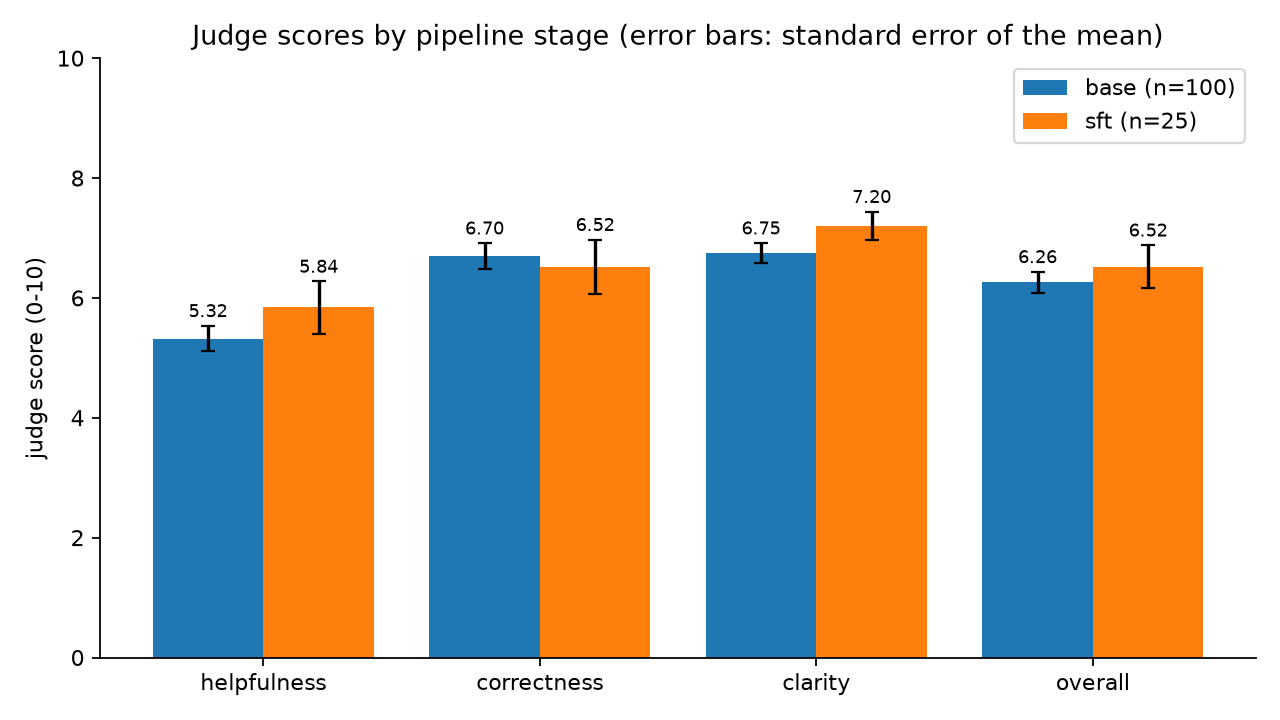
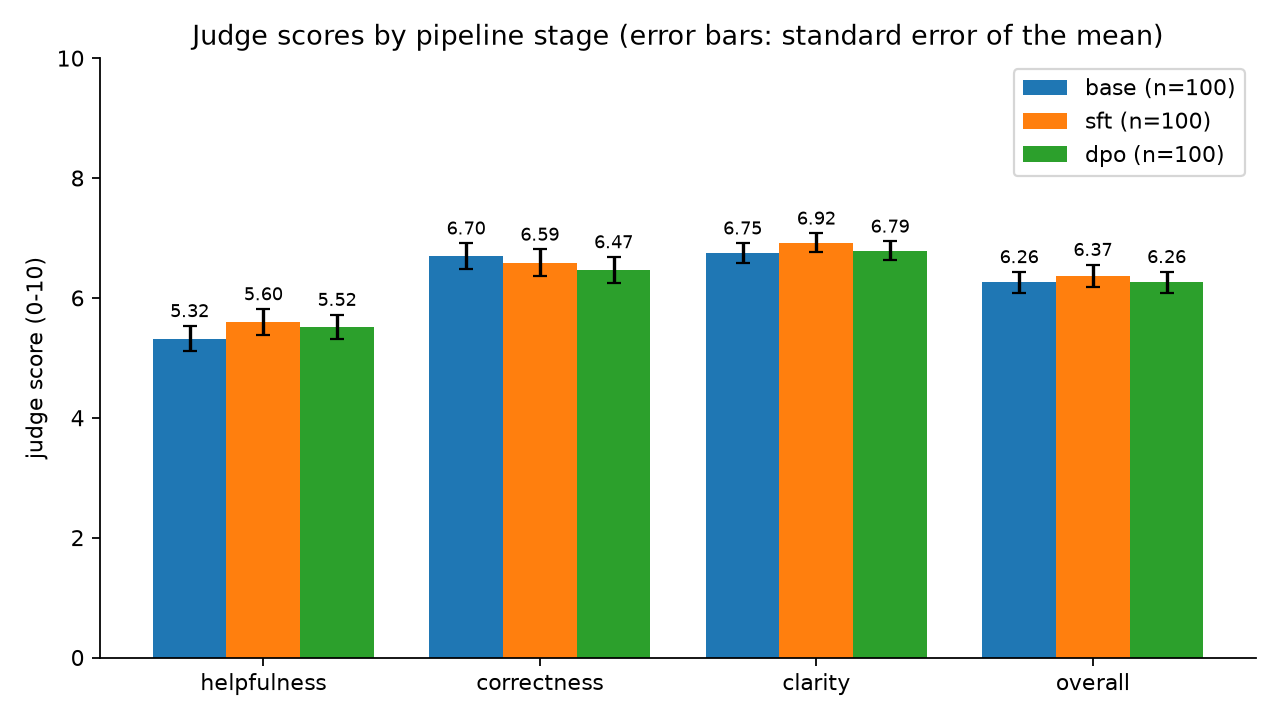
Correct the headline: the full sample does not support it
Scoring finished all three stages at 100 prompts. SFT's paired delta is +0.113
(95% CI -0.233 to +0.460) and DPO's is +0.003 (-0.329 to +0.336). Both contain
zero.

The earlier claim that SFT made the model worse came from -0.21 measured on 25
prompts, before the judge's daily budget cut scoring short. At four times the
sample the sign flips and the effect stays inside the noise. The README now says
what the data supports -- a 12.3% perplexity gain bought no measurable quality
change -- and keeps the retracted number visible rather than deleting it.

The pairwise result (base preferred 70 of 78) is kept but relabelled as
confounded: it changed the judge model and the prompt split at once, so it
cannot be read as evidence about pairwise versus absolute protocols. The claim
that pairwise separates what absolute cannot is withdrawn to a hypothesis with
the experiment that would test it.

diff --git a/README.md b/README.md
@@ -5,7 +5,8 @@ score and rank the results, then train DPO on those preferences — and report
 what actually happened.
 
 What actually happened is that **supervised fine-tuning lowered perplexity by
-12.3% and made the model worse.** The pipeline is built to catch exactly that.
+12.3% and produced no measurable quality gain.** The pipeline is built to catch
+exactly that.
 
 ```
 UltraChat 10k
@@ -26,11 +27,24 @@ DPO from the SFT adapter ──▶ adapters/dpo
 
 ## Results
 
-| Stage | Perplexity (held-out) | Pairwise vs base | Judge score, paired Δ |
-|---|---|---|---|
-| base | 3.609 | — | — |
-| SFT | **3.165** (−12.3%) | **loses 70 of 78** (10% win rate) | −0.21 (95% CI −0.75 to +0.32) |
-| DPO | 3.169 | *scoring pending* | *scoring pending* |
+| Stage | Perplexity (held-out) | Judge score (0-10) | Paired Δ vs base | Win/loss/tie |
+|---|---|---|---|---|
+| base | 3.609 | 6.26 | — | — |
+| SFT | **3.165** (−12.3%) | 6.37 | +0.113 (95% CI −0.233 to +0.460) | 49 / 37 / 14 |
+| DPO | 3.169 | 6.26 | +0.003 (95% CI −0.329 to +0.336) | 45 / 39 / 13 |
+
+100 prompts per stage, scored by gpt-oss-120b. **Both confidence intervals
+contain zero**: neither SFT nor DPO produced a quality change this evaluation
+can detect, while SFT moved perplexity 12.3%.
+
+A separate pairwise comparison — gpt-oss-20b, on the *different* `dpo` split —
+preferred base responses in 70 of 78 decided pairs. That disagrees sharply with
+the table above, and the honest reading is that it is **confounded**: it changed
+the judge model *and* the prompt set at the same time, so the disagreement
+cannot be attributed to the pairwise protocol alone. Resolving it needs the same
+judge running both protocols over the same prompts, which the daily token budget
+did not allow. It is reported because it is what the preference data actually
+said, not because it is conclusive.
 
 DPO training: loss **0.693 → 0.476**, reward margin **1.33**, reward accuracy
 **87.5%** on 78 preference pairs.
@@ -56,33 +70,42 @@ perplexity would describe a model this pipeline never produces.
 
 ## Findings
 
-### 1. SFT lowered perplexity and made the model worse
+### 1. A 12.3% perplexity gain bought no measurable quality
 
-Perplexity fell 12.3% while the judge preferred the *base* model in 70 of 78
-pairwise comparisons. Both are true, and they are not in conflict.
+Perplexity fell 12.3%. The judge's paired delta was +0.11 with a confidence
+interval spanning −0.23 to +0.46 — indistinguishable from zero.
 
-Qwen2.5-3B-**Instruct** is already instruction-tuned. UltraChat's responses come
-from a weaker teacher. Training on them moved the model closer to UltraChat's
-distribution — which is what perplexity measures — and further from where it
-started, which is what quality measures. Fine-tuning an already-aligned model on
-mid-quality data is regression toward the corpus, not learning.
+Qwen2.5-3B-**Instruct** is already instruction-tuned, and UltraChat's responses
+come from a weaker teacher. Training on them moved the model closer to
+UltraChat's distribution — which is exactly what perplexity measures — without
+moving quality anywhere the judge could see.
 
 **Reported alone, the perplexity number would have called this run a success.**
+That is the point of the judge: it is the instrument that says "no it wasn't".
 
-### 2. Pairwise judging separates models that absolute scoring cannot
+An earlier version of this README claimed SFT made the model *worse*, from a
+paired delta of −0.21 measured on 25 prompts before the judge's daily budget cut
+scoring short. At 100 prompts the sign flips to +0.11 and stays inside the
+noise. Twenty-five paired samples were not enough to carry that claim, and the
+first number is left here rather than quietly deleted.
 
-The same judge, on the same responses, gave two different answers:
+### 2. Absolute scoring compresses; pairwise does not — but this run cannot prove it
 
-| Method | Verdict |
-|---|---|
-| Pairwise A/B | base preferred in 70 of 78 (90%) |
-| Absolute 0-10 | paired Δ −0.21, CI −0.75 to +0.32 — indistinguishable from zero |
+Absolute scoring is blunt here. Every stage lands between 6.26 and 6.37 on a
+0-10 scale, and a competent two-sentence answer scored 9.3/10 despite a rubric
+stating that competent-but-unremarkable is a 6. Differences compress into a
+narrow band near the top.
 
-Absolute scoring is blunt because the judge rates almost everything near the
-top: a competent two-sentence answer scored 9.3/10 despite a rubric stating
-that competent-but-unremarkable is a 6. Real differences compress into that
-narrow band. Asked *which of these two is better*, the same judge separates
-them cleanly.
+The pairwise protocol on the same models was far more decisive (70 of 78). The
+tempting conclusion — pairwise separates what absolute scoring cannot — is
+**not supported by this experiment**, because the pairwise run also used a
+different judge model and a different prompt split. Two variables moved, so the
+effect cannot be assigned to one.
+
+What this run does establish: the absolute scores are compressed, and a design
+that changes judge and dataset together cannot answer a question about
+protocols. The next iteration runs both protocols with one judge over one
+prompt set.
 
 ### 3. QLoRA on 8 GB is memory-bound, and both obvious speedups backfire
 
@@ -211,9 +234,11 @@ So the judge:
 
 * **DPO is small.** 78 preference pairs, bounded by the daily judge budget.
   Conclusions from 78 pairs are weak, and labelled as such.
-* **Scoring is partial.** base 100 prompts, SFT 25, DPO pending the next quota
-  reset; the paired delta rests on the 25 prompts both stages share, which is why
-  its confidence interval is wide enough to contain zero.
+* **Neither result is significant.** Both paired deltas straddle zero. This
+  evaluation can rule out large effects, not small ones; 100 prompts and one
+  seed give it no power to resolve a few tenths of a point.
+* **The pairwise and absolute results disagree and the design cannot say why** —
+  different judge, different split. See Findings 1 and 2.
 * **One seed per configuration.** Differences of a few tenths of a judge point
   are not separable from run-to-run variance.
 * **Latency ranges are wide** (base spans 7.36-12.36 tok/s across three rounds).
